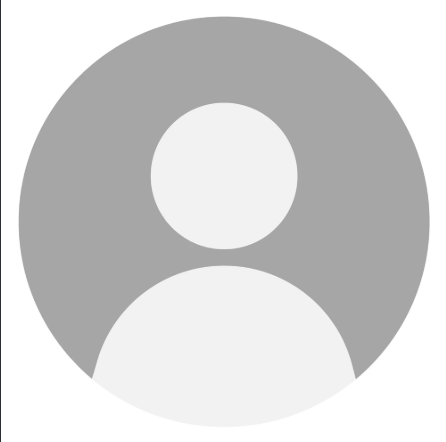
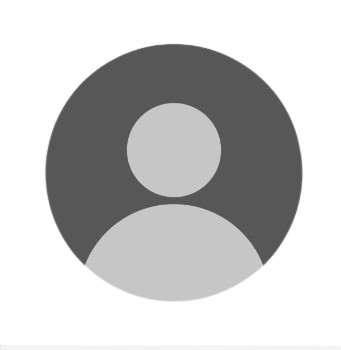
New Update

diff --git a/scripts/login.js b/scripts/login.js
@@ -1,168 +1,58 @@
+document.addEventListener('DOMContentLoaded', () => {
+    // 1. Tabs
+    const tabButtons = document.querySelectorAll('.tab-btn');
+    const submitButton = document.querySelector('.submit-button');
 
-document.addEventListener('DOMContentLoaded', async () => {
-    // 1. Paste your Supabase Project URL and Anon Key here (from Supabase Dashboard -> Settings -> API)
-    const SUPABASE_URL = 'eyJhbGciOiJIUzI1NiIsInR5cCI6IkpXVCJ9.eyJpc3MiOiJzdXBhYmFzZSIsInJlZiI6ImJidmlmaXV2eGFoenFtZHV0eW9xIiwicm9sZSI6ImFub24iLCJpYXQiOjE3OTMzMjY3ODcsImV4cCI6MjEwODkwMjc4N30.kzvGaTXKcFfGnQIkSFkKjFnV2dRpYZhBGORrtnosIEQ';
-    const SUPABASE_ANON_KEY = 'eyJhbGciOiJIUzI1NiIsInR5cCI6IkpXVCJ9.eyJpc3MiOiJzdXBhYmFzZSIsInJlZiI6ImJidmlmaXV2eGFoenFtZHV0eW9xIiwicm9sZSI6ImFub24iLCJpYXQiOjE3OTMzMjY3ODcsImV4cCI6MjEwODkwMjc4N30.kzvGaTXKcFfGnQIkSFkKjFnV2dRpYZhBGORrtnosIEQ';
-
-    const isConfigured = !SUPABASE_URL.includes('YOUR_PROJECT_ID') && window.supabase;
-    const supabaseClient = isConfigured
-        ? window.supabase.createClient(SUPABASE_URL, SUPABASE_ANON_KEY)
-        : null;
-
-    // 2. Check if the user just returned from a Google/GitHub login redirect
-    if (supabaseClient) {
-        const { data, error } = await supabaseClient.auth.getSession();
-
-        if (error) {
-            console.error('Session error:', error.message);
-        }
-
-        const session = data?.session;
-
-        if (session?.user) {
-            const user = session.user;
-
-            const name =
-                user.user_metadata?.full_name ||
-                user.user_metadata?.name ||
-                user.user_metadata?.user_name ||
-                user.email?.split('@')[0] ||
-                'User';
-
-            await syncWithUniVistaAuth(name, user.email);
-            return;
-        }
-    }
-
-    // 4. Google and GitHub login
-    async function startOAuth(provider) {
-        if (!supabaseClient) {
-            alert('Supabase is not configured. Check your URL, anon key and CDN script.');
-            return;
-        }
-
-        const { error } = await supabaseClient.auth.signInWithOAuth({
-            provider,
-            options: {
-                redirectTo: window.location.origin + window.location.pathname
-            }
-        });
-
-        if (error) {
-            console.error('OAuth error:', error);
-            alert(error.message);
-        }
-    }
-
-    const googleBtn = document.getElementById('google-btn');
-    const githubBtn = document.getElementById('github-btn');
-
-    if (googleBtn) {
-        googleBtn.addEventListener('click', () => startOAuth('google'));
-    }
-
-    if (githubBtn) {
-        githubBtn.addEventListener('click', () => startOAuth('github'));
-    }
-
-    // 5. Email/password login
-    const loginForm = document.querySelector('.login-form');
-
-    if (loginForm) {
-        loginForm.addEventListener('submit', async (event) => {
-            event.preventDefault();
-
-            const email = document.getElementById('email')?.value.trim();
-            const password = document.getElementById('password')?.value;
-
-            if (!email || !password) {
-                alert('Please enter your email and password.');
-                return;
-            }
-
-            if (!window.UniVistaAuth) {
-                alert('Authentication system not loaded. Check auth.js.');
-                return;
-            }
-
-            const result = await window.UniVistaAuth.signIn(email, password);
-
-            if (result.ok) {
-                window.location.href = 'dashboard.html';
-            } else {
-                alert(result.error);
-            }
-        });
-    }
-
-    // 6. Login/register tabs
-    document.querySelectorAll('.tab-btn').forEach((btn) => {
-        btn.addEventListener('click', () => {
-            if (btn.textContent.includes('Create')) {
+    tabButtons.forEach(button => {
+        button.addEventListener('click', () => {
+            if (button.textContent.trim() === 'Create your Account') {
                 window.location.href = 'login.html';
+            } else {
+                tabButtons.forEach(btn => btn.classList.remove('active'));
+                button.classList.add('active');
+                submitButton.textContent = 'Log Me In';
             }
         });
     });
 
-    // 7. Survival calculator navigation
-    const calculateBtn = document.querySelector('.calculate-btn');
+    // 2. Sign In: validate against registered accounts
+    const loginForm = document.querySelector('.login-form');
+    if (loginForm) {
+        const errorBox = document.createElement('div');
+        errorBox.className = 'form-error';
+        errorBox.hidden = true;
+        loginForm.insertBefore(errorBox, loginForm.querySelector('.form-actions'));
 
-    if (calculateBtn) {
-        calculateBtn.addEventListener('click', () => {
-            window.location.href = 'wizard-1-funds.html';
+        loginForm.addEventListener('submit', async (e) => {
+            e.preventDefault();
+            errorBox.hidden = true;
+            submitButton.disabled = true;
+
+            const result = await UniVistaAuth.signIn(
+                document.getElementById('email').value,
+                document.getElementById('password').value
+            );
+
+            if (result.ok) {
+                window.location.href = 'dashboard.html';
+            } else {
+                errorBox.textContent = result.error;
+                errorBox.hidden = false;
+                submitButton.disabled = false;
+            }
         });
     }
 
-    // 8. Sync OAuth user with existing UniVista authentication
-    async function syncWithUniVistaAuth(name, email) {
-        if (!window.UniVistaAuth) {
-            alert('UniVista authentication system is not loaded.');
-            return;
-        }
+    // 3. Google / GitHub buttons: no OAuth backend, so route to registration
+    document.querySelectorAll('.btn-social').forEach(btn => {
+        btn.addEventListener('click', () => { window.location.href = 'login.html'; });
+    });
 
-        if (!email) {
-            alert('Could not retrieve your email from the OAuth provider.');
-            return;
-        }
-
-        const oauthDummyPassword = 'oauth_bypass_token_999!';
-
-        try {
-            const registration = await window.UniVistaAuth.register({
-                name,
-                status: 'Authorized Operative',
-                email,
-                password: oauthDummyPassword
-            });
-
-            if (registration.ok) {
-                window.location.href = 'dashboard.html';
-                return;
-            }
-
-            if (registration.error?.toLowerCase().includes('already exists')) {
-                const login = await window.UniVistaAuth.signIn(
-                    email,
-                    oauthDummyPassword
-                );
-
-                if (login.ok) {
-                    window.location.href = 'dashboard.html';
-                } else {
-                    alert(
-                        'Your OAuth account exists, but local authentication could not sign you in. ' +
-                        'Your auth.js needs an OAuth-compatible account flow.'
-                    );
-                }
-
-                return;
-            }
-
-            alert(registration.error || 'Authentication failed.');
-
-        } catch (error) {
-            console.error('Authentication sync failed:', error);
-            alert('Something went wrong during login. Please try again.');
-        }
+    // 4. "Calculate My Survival"
+    const calculateBtn = document.querySelector('.calculate-btn');
+    if (calculateBtn) {
+        calculateBtn.addEventListener('click', () => {
+            window.location.href = UniVistaAuth.getProfile() ? 'dashboard.html' : 'login.html';
+        });
     }
 });

diff --git a/pages/user-profile.html b/pages/user-profile.html
@@ -36,14 +36,14 @@
                 <h1 class="profile-name" id="display-name">Your Name</h1>
                 <p class="profile-status" id="display-status">Student</p>
                 <div id="display-social-links" class="social-links" aria-label="Social profile links"></div>
-                <div class="status-badge" id="profile-system-status" style="margin-bottom: 1.5rem;">
-                    <span class="status-dot" id="profile-status-dot"></span>
+                <div class="status-badge" style="margin-bottom: 1.5rem;">
+                    <span class="status-dot"></span>
                     <span id="profile-status-text">SYSTEM NOMINAL</span>
                 </div>
                 
                 <!-- Buttons Stacked Here -->
                 <button id="edit-profile-btn" class="edit-btn">Edit Profile</button>
-                <button id="logout-btn" class="logout-btn">Log Out</button>
+                <button id="logout-btn" class="logout-btn">Log Out Operative</button>
             </div>
 
             <div class="info-card">
@@ -62,7 +62,7 @@
         <section class="profile-dashboard">
             
             <div class="dashboard-header">
-                <h2>Dashboard</h2>
+                <h2>OPERATIVE TELEMETRY</h2>
                 <span class="sync-text">LAST SYNC: JUST NOW</span>
             </div>
 
@@ -78,7 +78,7 @@
                 <!-- Academic Trajectory -->
                 <div class="stat-box target-box">
                     <div class="stat-icon">🎓</div>
-                    <h3>Academic Targets</h3>
+                    <h3>Academic Trajectory</h3>
                     <div class="stat-comparison">
                         <div class="stat-current">
                             <span class="label">CURRENT CGPA</span>
@@ -96,7 +96,7 @@
                 <!-- Post-Grad Directives -->
                 <div class="stat-box">
                     <div class="stat-icon">🌍</div>
-                    <h3>Future Directives</h3>
+                    <h3>Post-Grad Directives</h3>
                     <ul class="directive-list" id="display-directives">
                         <!-- JS injects directives here -->
                     </ul>
@@ -105,7 +105,7 @@
 
             <!-- Active Development -->
             <div class="dev-section">
-                <h3>My Projects</h3>
+                <h3>Active Development & Arsenal</h3>
                 <div class="project-list">
                     <!-- Project 1 Link -->
                     <a href="#" target="_blank" rel="noopener noreferrer" id="display-p1-link" class="project-card clickable-card">
@@ -141,22 +141,22 @@
                 
                 <!-- Core Info -->
                 <div class="input-group">
-                    <label>Profile Name</label>
+                    <label>Operative Name</label>
                     <input type="text" id="edit-name" class="standard-input" required>
                 </div>
                 <div class="input-group">
                     <label>Academic Status</label>
-                    <input type="text" id="edit-status" placeholder="Year" class="standard-input" required>
+                    <input type="text" id="edit-status" class="standard-input" required>
                 </div>
 
                 <!-- Optional social links: maximum five -->
-                <h3 class="modal-section-title">Social Links</h3>
+                <h3 class="modal-section-title">Social & Professional Links</h3>
                 <p class="social-links-help">Add up to 5 links. Choose a platform for each link and enter its full URL.</p>
                 <div id="social-link-inputs"></div>
                 <button type="button" id="add-social-link-btn" class="add-entry-btn">+ Add Social Link</button>
 
                 <!-- Academic goals -->
-                <h3 class="modal-section-title">Academic Targets</h3>
+                <h3 class="modal-section-title">Academic Trajectory</h3>
                 <div class="academic-input-grid">
                     <div class="input-group">
                         <label for="edit-current-cgpa">Current CGPA (0–10)</label>
@@ -172,7 +172,7 @@
                 <h3 class="modal-section-title">Future Plans & Directives</h3>
                 <div id="directive-inputs">
                     <div class="input-group directive-input-row">
-                        <label for="edit-directives">Future Directive 1</label>
+                        <label for="edit-directives">Post-Grad Directive 1</label>
                         <input type="text" id="edit-directives" class="standard-input" placeholder="e.g. Evaluating CAT">
                     </div>
                 </div>
@@ -227,19 +227,19 @@
                 <h3 class="modal-section-title">Hardware Loadout</h3>
                 <div class="input-group">
                     <label>CPU</label>
-                    <input type="text" id="edit-cpu" placeholder="Intel or AMD" class="standard-input">
+                    <input type="text" id="edit-cpu" class="standard-input">
                 </div>
                 <div class="input-group">
                     <label>RAM</label>
-                    <input type="text" id="edit-ram" placeholder="in GB" class="standard-input">
+                    <input type="text" id="edit-ram" class="standard-input">
                 </div>
                 <div class="input-group">
                     <label>GPU</label>
-                    <input type="text" id="edit-gpu" placeholder="NVIDIA or AMD" class="standard-input">
+                    <input type="text" id="edit-gpu" class="standard-input">
                 </div>
                 <div class="input-group">
                     <label>Primary Controller</label>
-                    <input type="text" id="edit-controller" placeholder="e.g., PS5, Xbox, Steam Deck, etc" class="standard-input">
+                    <input type="text" id="edit-controller" class="standard-input">
                 </div>
 
                 <div class="modal-actions">

diff --git a/scripts/profile.js b/scripts/profile.js
@@ -72,16 +72,14 @@ document.addEventListener('DOMContentLoaded', () => {
         select.value = SOCIAL_PLATFORMS.some(x => x.value === link.platform) ? link.platform : 'LinkedIn';
         const url = document.createElement('input');
         url.type = 'url';
-        url.maxLength = 300;
-        url.autocomplete = 'url';
         url.className = 'standard-input social-url';
-       url.placeholder = 'https://example.com/your-profile';
+        url.placeholder = 'https://...';
         url.setAttribute('aria-label', 'Social profile URL');
         url.value = safeUrl(link.url || '');
         const remove = document.createElement('button');
         remove.type = 'button';
         remove.className = 'remove-social-link';
-        remove.textContent = 'Remove Link';
+        remove.textContent = 'Remove';
         remove.addEventListener('click', () => { row.remove(); updateSocialLinkControls(); });
         row.append(select, url, remove);
         container.appendChild(row);

diff --git a/pages/wizard-1-funds.html b/pages/wizard-1-funds.html
@@ -60,7 +60,7 @@
                     
                     <div class="predicament-pills">
                         <button type="button" class="pill-btn" data-val="0">₹0 (Rock Bottom)</button>
-                        <button type="button" class="pill-btn" data-val="20">₹20 (End of Sem)</button>
+                        <button type="button" class="pill-btn" data-val="15">₹15 (End of Sem)</button>
                         <button type="button" class="pill-btn" data-val="50">₹50 (Groceries)</button>
                     </div>
                 </div>

diff --git a/pages/mainpage.html b/pages/mainpage.html
@@ -6,7 +6,7 @@
     <title>UniVista</title>
     <link rel="stylesheet" href="../styles/mainpage_styles.css">
     <link href="https://fonts.googleapis.com/css2?family=Plus+Jakarta+Sans:wght@300;400;500;600;700&display=swap" rel="stylesheet">
-    <script src="https://cdn.jsdelivr.net/npm/@supabase/supabase-js@2"></script>
+    <script src="https://accounts.google.com/gsi/client" async defer></script>
     <link rel="stylesheet" href="../styles/univista_shared_theme.css">
 </head>
 <body>

diff --git a/README.md b/README.md
@@ -51,8 +51,8 @@ Keep it respectful and kind. We are all stressed out, running on three hours of 
 
 1. Keep the `pages`, `styles`, and `scripts` folders together in the project root.
 2. Open `pages/mainpage.html` in a browser, or serve the project root with a local static server and visit `/pages/mainpage.html`.
-3. Use the main page form to continue to the dashboard (authentication is intentionally bypassed during this UI/functionality pass).
-4. Start the Survival Wizard from the dashboard. The currently wired steps are Funds → Attendance → Assignments. Sleep and Calculate are not connected yet.
+3. Use the main page and login flow to open the dashboard.
+4. Start the Survival Wizard and complete Funds → Attendance → Assignments → Sleep → Calculate.
 
 ## Project structure
 
@@ -79,7 +79,7 @@ This frontend-only version provides a JSON export option without a backend.
 2. Open `pages/mainpage.html` directly or use VS Code Live Server.
 3. Open the profile page and choose Edit Profile → Export JSON to download your data.//localhost:3000/pages/mainpage.html`.
 
-Do not open the HTML files directly with `file://` when testing JSON persistence. The browser must use the local server so the `/api/submissions` endpoint is available.
+This version is frontend-only. Open `pages/mainpage.html` with VS Code Live Server (recommended) or another static server. JSON export works in the browser and does not require a backend.
 
 ### What gets saved
 
@@ -87,7 +87,7 @@ Do not open the HTML files directly with `file://` when testing JSON persistence
 - Funds, attendance, assignments, and sleep form submissions.
 - The final survival score and verdict.
 
-Records are appended to `data/submissions.json`. Each record includes a type, timestamp, optional account email/name, and submitted payload. Passwords are not sent to this endpoint.
+The project stores working data in browser `localStorage`. The export option downloads the available profile and survival-wizard data as a JSON file. No backend endpoint is required.
 
 ### JSON export option
 
